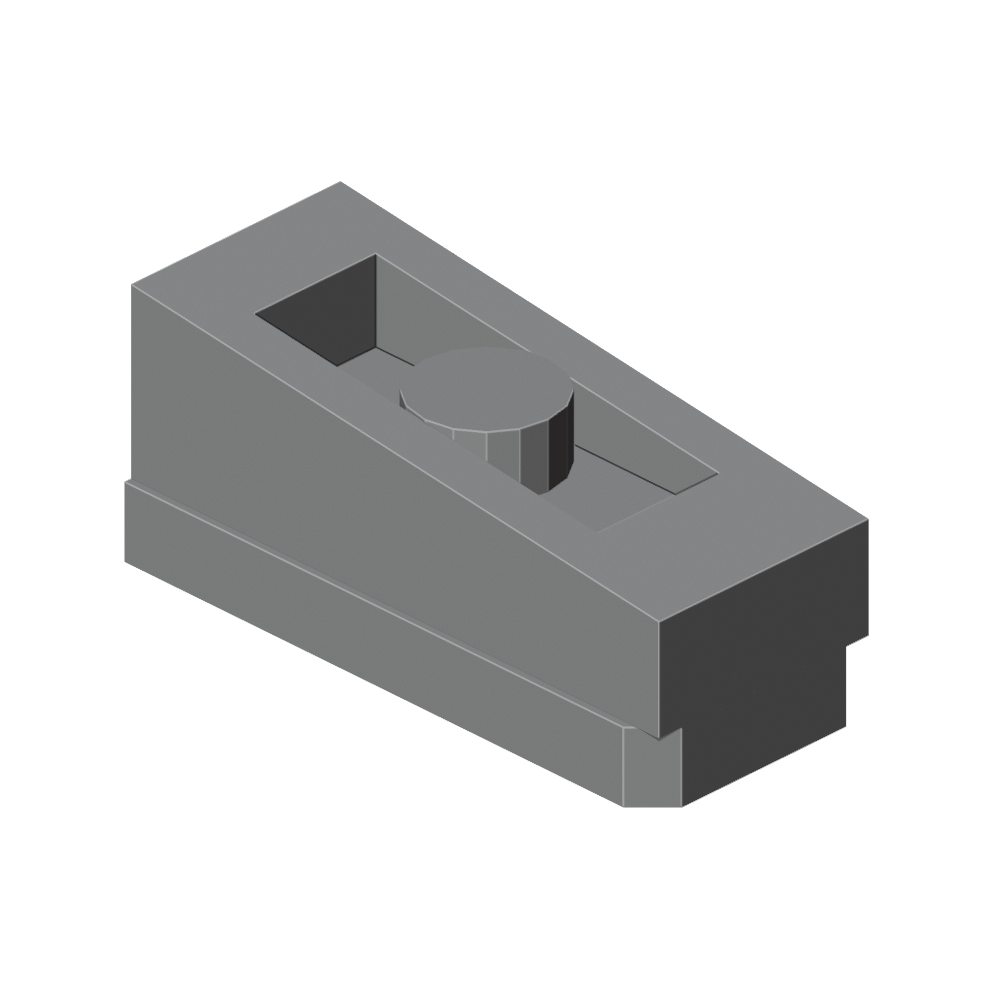
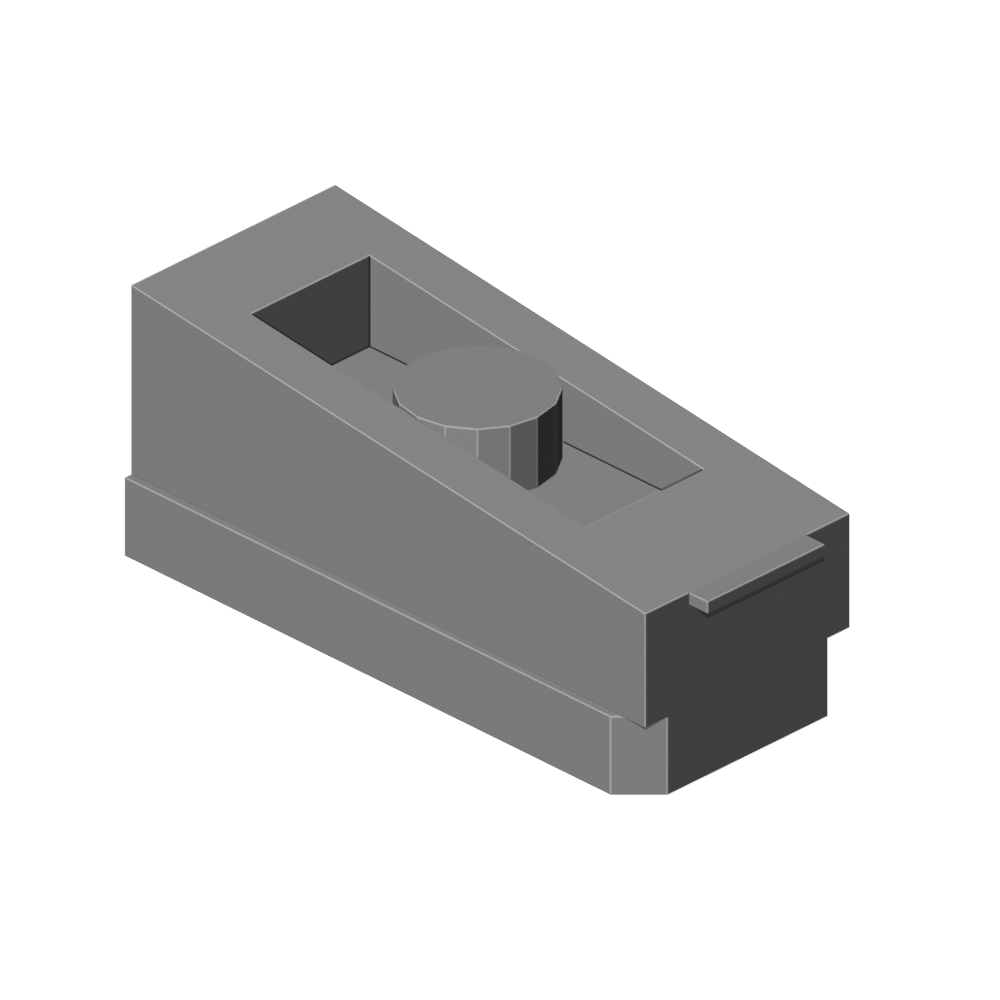
Add the Scotch C38 cutter blade -- all five planned components now present
CutterBlade as its own object per reference_plan.md's declared separate functional
assembly (metal, a real material/function boundary from the plastic shell). A close photo
crop showed a thin metallic plate with a serrated front edge, mounted at the shell's
front-top edge, projecting slightly forward. Serration is tertiary detail, not built yet --
this establishes mass and position only, per the plan's own instruction not to add detail
before primary form is settled. Position read directly off the shell's current front-face
geometry.

All five components the frozen plan names are now present: UpperShell_HIGH, WeightedBase_HIGH,
Hub, TapeRoll, CutterBlade. Genuine primary-form blockout now, not just a box -- ready for a
real proportion/silhouette review next. Not yet reviewed by a human.

diff --git a/runs/2026-08-21_scotch-c38-blockout/README.md b/runs/2026-08-21_scotch-c38-blockout/README.md
@@ -100,8 +100,18 @@ front (+X) corners via `CHAMFER_BASE_FRONT_CORNERS` (bisect_plane + edgenet_fill
 Only the front: the rear isn't visible in any reference photo at this angle, so it stays a plain
 box edge rather than inventing a matching treatment with no evidence for it. Structurally clean.
 
+## Cutter blade
+
+Added `CutterBlade` -- `reference_plan.md`'s declared separate functional assembly (metal, a real
+material/function boundary from the plastic shell). A close photo crop shows a thin metallic plate
+with a serrated front edge, mounted at the shell's front-top edge, projecting slightly forward.
+Serration itself is tertiary detail and not built yet -- this establishes the mass and position
+only, per this same plan's own instruction not to add detail before primary form is settled.
+Position read directly off the shell's own current front-face geometry, not re-guessed.
+
 ## Status
 
-Recognizable tape-dispenser gestalt: wedge shell, negative-space cavity, hub, tape roll, and a
-chamfered base front. Still open: the front cutter face (currently just the shell's plain sloped
-front wall). One bounded decision at a time, each rendered and checked before the next.
+All five components `reference_plan.md` names are now present: `UpperShell_HIGH` (wedge, tapered,
+with the cavity), `WeightedBase_HIGH` (chamfered front), `Hub`, `TapeRoll`, `CutterBlade`. This is
+a genuine primary-form blockout, not just a box -- ready for a real proportion/silhouette review
+against the reference next, before any further detail. Not yet reviewed by a human.
